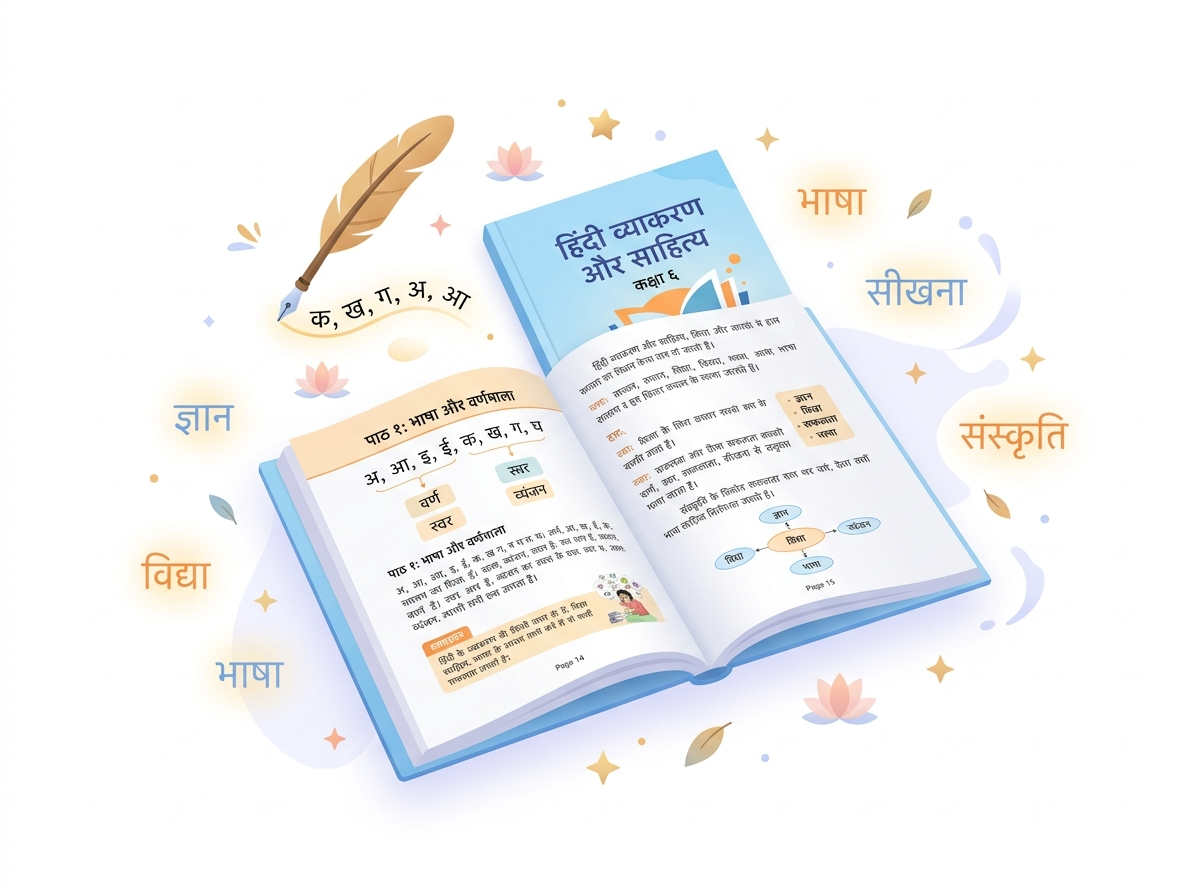
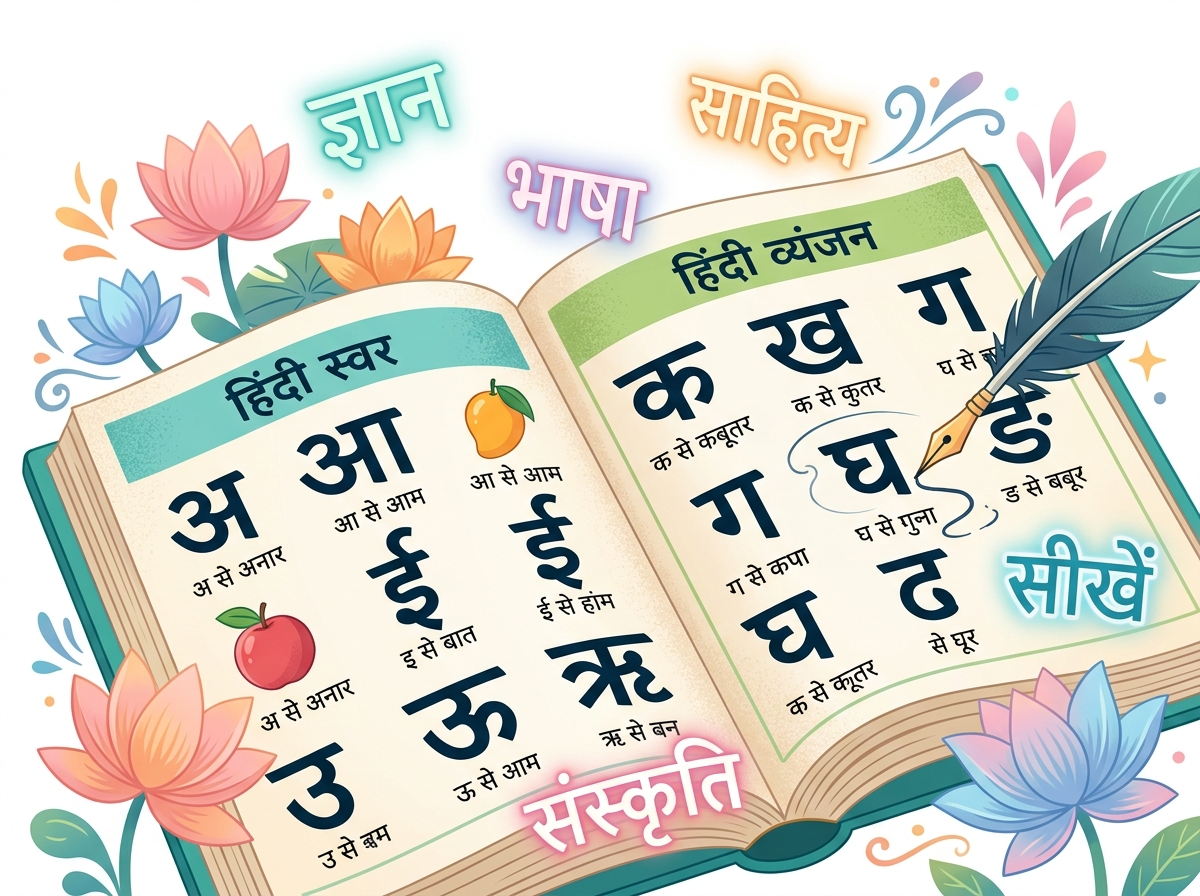
style: replace with tight-crop high-res hero image and enlarge display scale to 720px v29.0.0

diff --git a/public/style.css b/public/style.css
@@ -259,10 +259,10 @@ h1,h2,h3,h4 { font-family: var(--font-head); color: var(--text-primary); line-he
 .stat strong { font-family: var(--font-head); font-size: 1.3rem; color: var(--accent); }
 .stat span { font-size: .78rem; color: var(--text-muted); font-weight: 500; text-transform: uppercase; letter-spacing: .05em; }
 .stat-divider { width: 1px; height: 36px; background: var(--border); }
-.hero-visual { display: flex; justify-content: center; align-items: center; width: 100%; }
-.hero-svg { width: 100%; max-width: 620px; filter: drop-shadow(0 12px 30px rgba(58,123,213,.12)); }
-.hero-img { width: 100%; max-width: 620px; border-radius: 24px; box-shadow: 0 20px 45px rgba(58,123,213,0.16), 0 4px 14px rgba(0,0,0,0.05); border: 1px solid rgba(255,255,255,0.8); object-fit: cover; transition: transform 0.35s cubic-bezier(0.16, 1, 0.3, 1), box-shadow 0.35s ease; }
-.hero-img:hover { transform: scale(1.02) translateY(-4px); box-shadow: 0 28px 55px rgba(58,123,213,0.22), 0 8px 20px rgba(0,0,0,0.08); }
+.hero-visual { display: flex; justify-content: center; align-items: center; width: 100%; overflow: visible; }
+.hero-svg { width: 100%; max-width: 720px; filter: drop-shadow(0 12px 30px rgba(58,123,213,.12)); }
+.hero-img { width: 100%; max-width: 720px; border-radius: 24px; box-shadow: 0 20px 45px rgba(58,123,213,0.16), 0 4px 14px rgba(0,0,0,0.05); border: 1px solid rgba(255,255,255,0.8); object-fit: cover; transform: scale(1.05); transition: transform 0.35s cubic-bezier(0.16, 1, 0.3, 1), box-shadow 0.35s ease; }
+.hero-img:hover { transform: scale(1.08) translateY(-4px); box-shadow: 0 28px 55px rgba(58,123,213,0.22), 0 8px 20px rgba(0,0,0,0.08); }
 .hero-wave { margin-top: -2px; line-height: 0; }
 .hero-wave svg { width: 100%; height: 60px; display: block; }
 

diff --git a/public/index.html b/public/index.html
@@ -49,7 +49,7 @@
   <link rel="preconnect" href="https://fonts.googleapis.com" />
   <link rel="preconnect" href="https://fonts.gstatic.com" crossorigin />
   <link href="https://fonts.googleapis.com/css2?family=Plus+Jakarta+Sans:wght@500;600;700;800&family=Inter:wght@400;500;600;700&display=swap" rel="stylesheet" />
-  <link rel="stylesheet" href="style.css?v=28.0.0" />
+  <link rel="stylesheet" href="style.css?v=29.0.0" />
 </head>
 <body>
 
@@ -636,7 +636,7 @@
   </div>
 </div>
 
-<script src="script.js?v=28.0.0"></script>
+<script src="script.js?v=29.0.0"></script>
 </body>
 
 
